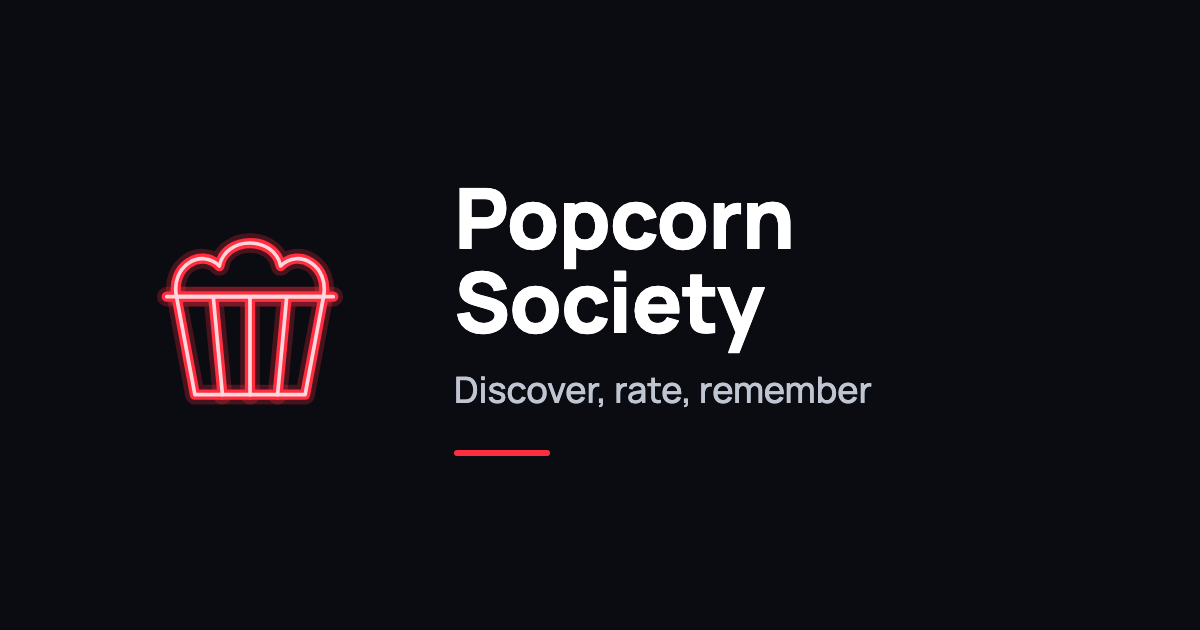
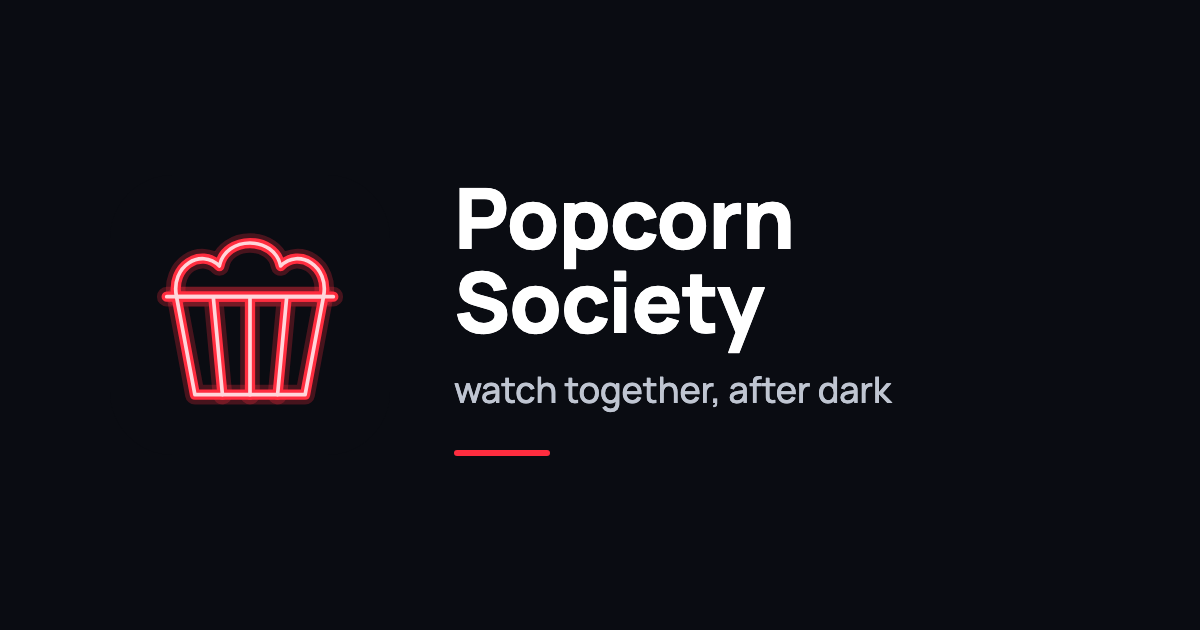
feat(brand): adopt after-dark tagline

Changed region(s): [[0.37, 0.6032, 0.74, 0.6635]]

diff --git a/frontend/index.html b/frontend/index.html
@@ -25,14 +25,14 @@
     <meta name="theme-color" content="#0A0C12" />
     <meta
       name="description"
-      content="Discover, rate, and remember movies with Popcorn Society."
+      content="Watch movies together after dark with Popcorn Society."
     />
-    <title>Popcorn Society - Discover, rate, remember</title>
+    <title>Popcorn Society - watch together, after dark</title>
     <meta property="og:site_name" content="Popcorn Society" />
     <meta property="og:type" content="website" />
     <meta
       property="og:title"
-      content="Popcorn Society - Discover, rate, remember"
+      content="Popcorn Society - watch together, after dark"
     />
     <meta
       property="og:description"

diff --git a/frontend/scripts/generate-brand-assets.ts b/frontend/scripts/generate-brand-assets.ts
@@ -176,7 +176,7 @@ try {
           ${svgImage(icon, 280)}
           <div>
             <div style="color:${theme.og.text};font-size:84px;font-weight:800;line-height:1;letter-spacing:-1px">Popcorn Society</div>
-            <div style="color:${theme.og.secondary};font-size:36px;font-weight:500;margin-top:22px">Discover, rate, remember</div>
+            <div style="color:${theme.og.secondary};font-size:36px;font-weight:500;margin-top:22px">watch together, after dark</div>
             <div style="width:96px;height:6px;border-radius:3px;background:${theme.og.accent};margin-top:36px"></div>
           </div>
         </div>`,

diff --git a/frontend/src/theme/themes/classic.ts b/frontend/src/theme/themes/classic.ts
@@ -59,7 +59,7 @@ export const classicTheme: AppThemeDefinition = {
       uppercase: false,
     },
     tagline: {
-      text: "Discover, rate, remember",
+      text: "watch together, after dark",
       align: "start",
       color: "rgba(255,255,255,0.75)",
       fontSize: 11,

diff --git a/frontend/src/i18n.ts b/frontend/src/i18n.ts
@@ -1,7 +1,7 @@
 export const i18n = {
   general: {
     appName: "Popcorn Society",
-    tagline: "Discover, rate, remember",
+    tagline: "watch together, after dark",
   },
   regex: {
     username: {

diff --git a/docs/brand/after-dark/brand-direction.md b/docs/brand/after-dark/brand-direction.md
@@ -31,8 +31,7 @@ chains in the rain and mirrored in a puddle) sets the mood. The whole interface 
 same world: midnight backgrounds, asphalt surfaces, paper-coloured text, and neon used sparingly
 for the moments that matter.
 
-Brand line options (English, as all brand copy): "watch together, after dark", "Discover, rate,
-remember" (existing, keep as product tagline).
+The public brand line is "watch together, after dark" (English, as all brand copy).
 
 ## 3. Principles
 
@@ -229,9 +228,7 @@ Still open: `reflections-mark-mono.svg` has no web use yet (light backgrounds, p
 
 1. Final display and body typeface (compare candidates in the real app).
 2. Final values for `fog`, `sodium-amber`, `rain-blue` and `signal` after contrast checks.
-3. Does "watch together, after dark" become the public brand line, or stay secondary to
-   "Discover, rate, remember"?
-4. Scope of the first rollout: theme and logo only, or also layout changes on home and ratings?
+3. Scope of the first rollout: theme and logo only, or also layout changes on home and ratings?
 
 ## 15. Exploration history (for context)
 

diff --git a/README.md b/README.md
@@ -7,7 +7,7 @@
 <h1 align="center">Popcorn Society</h1>
 
 <p align="center">
-  <strong>Discover, rate, remember.</strong><br />
+  <strong>Watch together, after dark.</strong><br />
   A production-style React + Spring Boot movie application with explainable discovery,
   a voice-controlled Movie Concierge, OpenSearch, full-stack observability, and k3s GitOps.
 </p>
